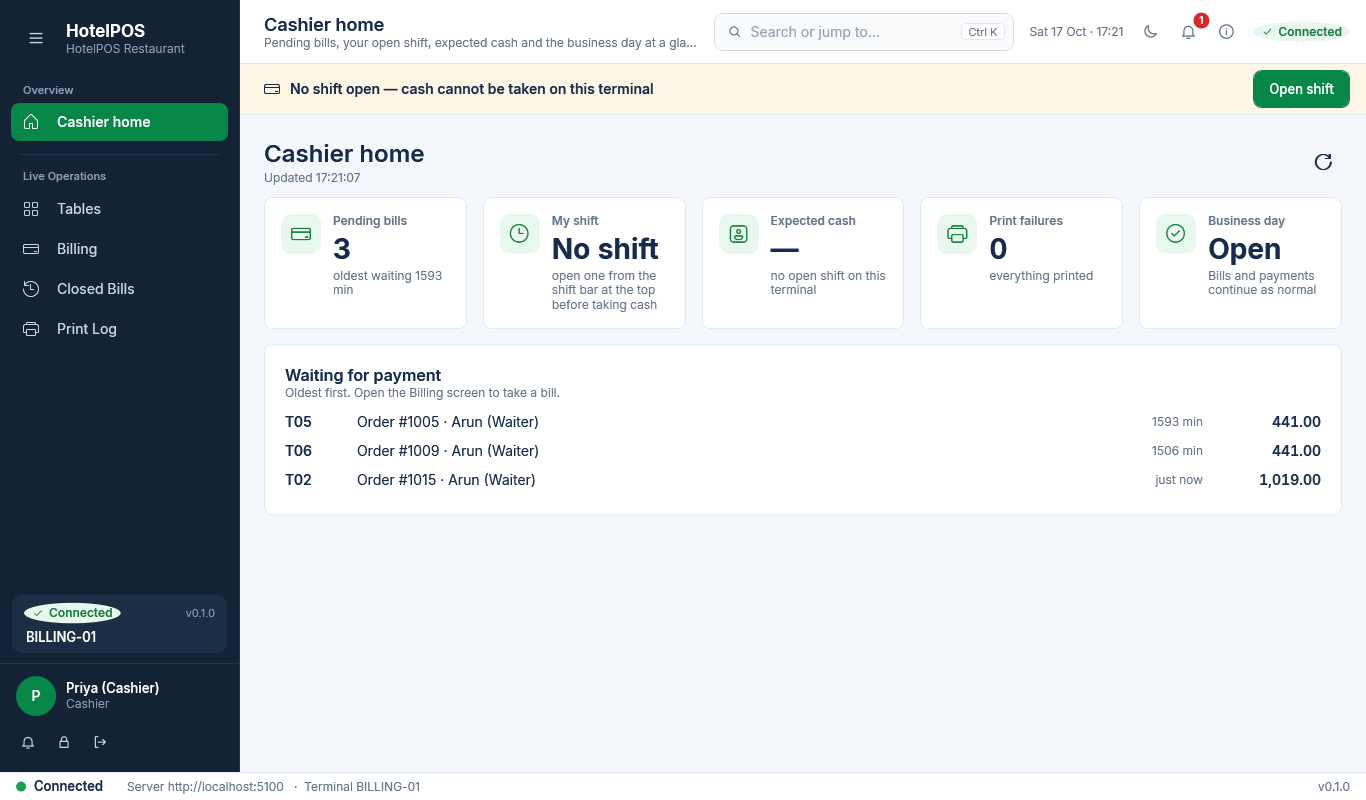
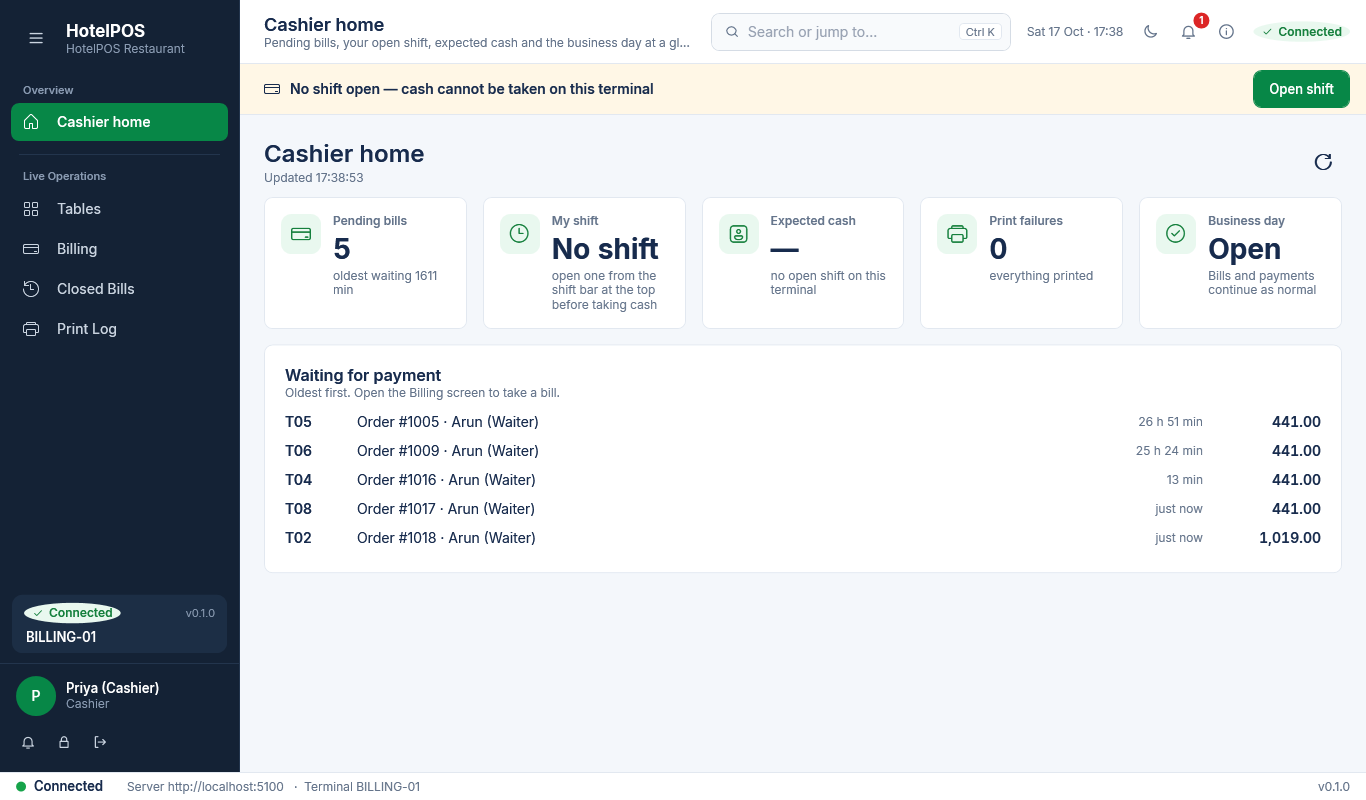
fix(desktop): Phase 21 polish - Manage customers link in the bill picker (D3), payment column spacing, sidebar nav scrollbar, elapsed wait time, toast below the shift bar, Add discount hidden on paid bills; cashier gallery refreshed

diff --git a/Restaurant_Pos/src/HotelPOS.Desktop/Themes/Cashier.xaml b/Restaurant_Pos/src/HotelPOS.Desktop/Themes/Cashier.xaml
@@ -264,6 +264,7 @@
                 <TextBlock Text="{Binding DiscountLabel}" Style="{StaticResource Text.Body}" Foreground="{DynamicResource Brush.TextSecondary}"
                            VerticalAlignment="Center" MaxWidth="260" TextTrimming="CharacterEllipsis" />
                 <Button Content="Add discount" Command="{Binding ShowDiscountCommand}" Style="{StaticResource Button.Link}" Margin="8,0,0,0"
+                        Visibility="{Binding IsPaid, Converter={StaticResource InverseBoolToVisibility}}"
                         IsEnabled="{Binding CanEdit}" />
               </StackPanel>
               <TextBlock Text="{Binding DiscountText}" Style="{StaticResource Text.Numeric}" Foreground="{DynamicResource Brush.SuccessText}"
@@ -389,7 +390,7 @@
                   </ItemsControl.ItemsPanel>
                   <ItemsControl.ItemTemplate>
                     <DataTemplate DataType="{x:Type billing:PaymentMethodButton}">
-                      <ToggleButton Style="{StaticResource PaymentPanel.Method}" IsChecked="{Binding IsSelected, Mode=OneWay}"
+                      <ToggleButton Style="{StaticResource PaymentPanel.Method}" MinHeight="44" Margin="0,0,8,6" IsChecked="{Binding IsSelected, Mode=OneWay}"
                                     Command="{Binding DataContext.PayWithCommand, RelativeSource={RelativeSource AncestorType=ItemsControl}}"
                                     CommandParameter="{Binding Method}" AutomationProperties.Name="{Binding Name}">
                         <StackPanel>
@@ -401,7 +402,7 @@
                   </ItemsControl.ItemTemplate>
                 </ItemsControl>
                 <ToggleButton Style="{StaticResource PaymentPanel.Method}" IsChecked="{Binding IsSplitSelected, Mode=OneWay}" Command="{Binding PaySplitCommand}"
-                              HorizontalAlignment="Stretch" Margin="0,0,0,8" MinHeight="44" AutomationProperties.Name="Split payment">
+                              HorizontalAlignment="Stretch" Margin="0,0,0,4" MinHeight="40" AutomationProperties.Name="Split payment">
                   <StackPanel Orientation="Horizontal">
                     <controls:Icon Kind="swap" Width="16" Height="16" VerticalAlignment="Center" Margin="0,0,8,0" />
                     <TextBlock Text="Split payment" VerticalAlignment="Center" />
@@ -424,7 +425,7 @@
                                  Typography.NumeralAlignment="Tabular" AutomationProperties.Name="Amount to pay" />
                       </Grid>
                       <StackPanel Visibility="{Binding IsCash, Converter={StaticResource BoolToVisibility}}">
-                        <TextBlock Text="Quick amounts" Style="{StaticResource Text.Caption}" Margin="0,10,0,4" />
+                        <TextBlock Text="Quick amounts" Style="{StaticResource Text.Caption}" Margin="0,6,0,2" />
                         <ItemsControl ItemsSource="{Binding QuickTenders}" Focusable="False" Margin="0,0,-8,0">
                           <ItemsControl.ItemsPanel>
                             <ItemsPanelTemplate>
@@ -433,16 +434,16 @@
                           </ItemsControl.ItemsPanel>
                           <ItemsControl.ItemTemplate>
                             <DataTemplate DataType="{x:Type billing:QuickTenderOption}">
-                              <Button Content="{Binding Label}" Style="{StaticResource PaymentPanel.QuickAmount}"
+                              <Button Content="{Binding Label}" Style="{StaticResource PaymentPanel.QuickAmount}" MinHeight="38" Margin="0,0,8,6"
                                       Command="{Binding DataContext.QuickTenderCommand, RelativeSource={RelativeSource AncestorType=ItemsControl}}"
                                       CommandParameter="{Binding}" />
                             </DataTemplate>
                           </ItemsControl.ItemTemplate>
                         </ItemsControl>
                         <TextBlock Text="Amount received" Style="{StaticResource Text.Caption}" Margin="0,2,0,2" />
-                        <TextBox Text="{Binding TenderedText, UpdateSourceTrigger=PropertyChanged}" Style="{StaticResource PaymentPanel.Received}" MaxLength="12"
+                        <TextBox Text="{Binding TenderedText, UpdateSourceTrigger=PropertyChanged}" Style="{StaticResource PaymentPanel.Received}" MaxLength="12" MinHeight="46"
                                  AutomationProperties.Name="Amount received" />
-                        <Border Style="{StaticResource PaymentPanel.Change}" Margin="0,8,0,0">
+                        <Border Style="{StaticResource PaymentPanel.Change}" Margin="0,4,0,0" Padding="14,6">
                           <Grid>
                             <TextBlock Text="Change due" VerticalAlignment="Center" />
                             <TextBlock Text="{Binding ChangeText}" Style="{StaticResource PaymentPanel.ChangeAmount}" />

diff --git a/Restaurant_Pos/src/HotelPOS.Desktop/Shell/ShellView.xaml b/Restaurant_Pos/src/HotelPOS.Desktop/Shell/ShellView.xaml
@@ -64,7 +64,37 @@
                  ItemsSource="{Binding NavItems}"
                  SelectedItem="{Binding SelectedNavItem}"
                  Style="{StaticResource NavList}"
-                 ItemContainerStyle="{StaticResource NavItem}" />
+                 ScrollViewer.VerticalScrollBarVisibility="Auto"
+                 ItemContainerStyle="{StaticResource NavItem}">
+        <ListBox.Resources>
+          <!-- Thin scrollbar on the navy: a light translucent thumb, no track. -->
+          <Style TargetType="ScrollBar">
+            <Setter Property="Background" Value="Transparent" />
+            <Setter Property="Width" Value="6" />
+            <Setter Property="MinWidth" Value="6" />
+            <Setter Property="Template">
+              <Setter.Value>
+                <ControlTemplate TargetType="ScrollBar">
+                  <Track x:Name="PART_Track" IsDirectionReversed="True">
+                    <Track.Thumb>
+                      <Thumb>
+                        <Thumb.Template>
+                          <ControlTemplate TargetType="Thumb">
+                            <Border x:Name="Bd" Background="{DynamicResource Brush.SidebarTextMuted}" CornerRadius="3" Margin="1,0" />
+                            <ControlTemplate.Triggers>
+                              <Trigger Property="IsMouseOver" Value="True"><Setter TargetName="Bd" Property="Background" Value="{DynamicResource Brush.SidebarText}" /></Trigger>
+                            </ControlTemplate.Triggers>
+                          </ControlTemplate>
+                        </Thumb.Template>
+                      </Thumb>
+                    </Track.Thumb>
+                  </Track>
+                </ControlTemplate>
+              </Setter.Value>
+            </Setter>
+          </Style>
+        </ListBox.Resources>
+        </ListBox>
 
         <!-- Footer: the terminal and connection card, then the signed-in user. Name and role get the full width; the three actions sit
              on their own row underneath. -->

diff --git a/Restaurant_Pos/src/HotelPOS.Desktop/Modules/Billing/BillDetailView.xaml b/Restaurant_Pos/src/HotelPOS.Desktop/Modules/Billing/BillDetailView.xaml
@@ -157,6 +157,7 @@
                 <TextBlock Text="{Binding DiscountLabel}" Style="{StaticResource Text.Body}" Foreground="{DynamicResource Brush.TextSecondary}"
                            VerticalAlignment="Center" MaxWidth="230" TextTrimming="CharacterEllipsis" />
                 <Button Content="DISCOUNT" Command="{Binding ShowDiscountCommand}" Style="{StaticResource Button.Link}" Margin="8,0,0,0"
+                        Visibility="{Binding IsPaid, Converter={StaticResource InverseBoolToVisibility}}"
                         IsEnabled="{Binding CanEdit}" />
               </StackPanel>
               <TextBlock Text="{Binding DiscountText}" Style="{StaticResource Text.Body}" HorizontalAlignment="Right" VerticalAlignment="Center"
@@ -305,9 +306,10 @@
                       </DataTemplate>
                     </ItemsControl.ItemTemplate>
                   </ItemsControl>
-                  <TextBlock Text="No customer matches. Fill in the details below, or add the customer on the Customers screen."
+                  <TextBlock Text="No customer matches. Fill in the details below, or add the customer under Manage customers."
                              Style="{StaticResource Text.Caption}" TextWrapping="Wrap" Margin="0,6,0,0"
                              Visibility="{Binding HasNoCustomerMatches, Converter={StaticResource BoolToVisibility}}" />
+                  <Button Content="Manage customers…" Command="{Binding ManageCustomersCommand}" Style="{StaticResource Button.Link}" HorizontalAlignment="Left" Margin="0,6,0,0" />
                   <TextBlock Text="{Binding PickedCustomerName, StringFormat='Picked: {0}'}" Style="{StaticResource Text.Caption}" Margin="0,6,0,0"
                              Visibility="{Binding PickedCustomerName, Converter={StaticResource StringToVisibility}}" />
                   <Button Content="CLEAR CUSTOMER" Command="{Binding ClearCustomerCommand}" HorizontalAlignment="Left" MinHeight="44" Margin="0,8,0,0"

diff --git a/Restaurant_Pos/src/HotelPOS.Desktop/Shell/MainWindow.xaml b/Restaurant_Pos/src/HotelPOS.Desktop/Shell/MainWindow.xaml
@@ -67,7 +67,7 @@
          pages' action rows (top-right and bottom) stay clear of them. -->
     <ItemsControl ItemsSource="{Binding Notifications.Items}"
                   HorizontalAlignment="Center" VerticalAlignment="Top"
-                  Margin="0,64,0,0" Width="420" Focusable="False">
+                  Margin="0,124,0,0" Width="420" Focusable="False">
       <ItemsControl.ItemTemplate>
         <DataTemplate DataType="{x:Type ui:ToastViewModel}">
           <Grid Margin="0,8,0,0">

diff --git a/Restaurant_Pos/tests/HotelPOS.Desktop.Tests/Billing/BillingViewModelTests.cs b/Restaurant_Pos/tests/HotelPOS.Desktop.Tests/Billing/BillingViewModelTests.cs
@@ -328,6 +328,18 @@ public sealed class BillingViewModelTests
     }
 
     [Fact]
+    public async Task ManageCustomers_OpensTheHiddenCustomersModule()
+    {
+        var nav = Substitute.For<INavigationService>();
+        var vm = DetailViewModel(nav: nav);
+
+        await vm.ManageCustomersCommand.ExecuteAsync(null);
+
+        await nav.Received(1).NavigateToAsync(ModuleRegistry.Customers, Arg.Any<object?>());
+        vm.Dispose();
+    }
+
+    [Fact]
     public async Task CustomerPanel_WithoutTheCustomerList_HidesThePicker()
     {
         var bill = Detail(BillStatus.Open, balance: 630m);
@@ -376,13 +388,13 @@ public sealed class BillingViewModelTests
         vm.Dispose();
     }
 
-    private BillDetailViewModel DetailViewModel(string role = "Cashier", IDialogService? dialogs = null, ICustomersApi? customers = null, IOrdersApi? orders = null)
+    private BillDetailViewModel DetailViewModel(string role = "Cashier", IDialogService? dialogs = null, ICustomersApi? customers = null, IOrdersApi? orders = null, INavigationService? nav = null)
     {
         var session = Substitute.For<IAuthSession>();
         session.User.Returns(TestData.Login("cashier1", roles: role).User);
         var system = Substitute.For<ISystemApi>();
         system.GetPublicSettingsAsync(Arg.Any<CancellationToken>()).Returns(ApiResult<List<Contracts.Admin.SettingDto>>.Ok(new List<Contracts.Admin.SettingDto>()));
-        return new BillDetailViewModel(_api, system, new FakeRealtimeClient(), Substitute.For<INavigationService>(),
+        return new BillDetailViewModel(_api, system, new FakeRealtimeClient(), nav ?? Substitute.For<INavigationService>(),
             dialogs ?? Substitute.For<IDialogService>(), Substitute.For<INotificationService>(), session, Substitute.For<HotelPOS.Desktop.Services.Printing.IDocumentPrinter>(), customers: customers, orders: orders);
     }
 

diff --git a/Restaurant_Pos/src/HotelPOS.Desktop/Modules/Billing/BillingQueueViewModel.cs b/Restaurant_Pos/src/HotelPOS.Desktop/Modules/Billing/BillingQueueViewModel.cs
@@ -72,7 +72,9 @@ public sealed partial class BillQueueItemViewModel : ObservableObject
     public void Tick(DateTime nowUtc)
     {
         var minutes = Math.Max(0, (int)(nowUtc - Bill.RequestedAtUtc).TotalMinutes);
-        WaitingText = minutes < 1 ? "just now" : string.Create(CultureInfo.CurrentCulture, $"{minutes} min");
+        WaitingText = minutes < 1 ? "just now" : minutes >= 2 * 24 * 60
+            ? string.Create(CultureInfo.CurrentCulture, $"{minutes / 1440} d {minutes % 1440 / 60} h")
+            : HotelPOS.Desktop.Modules.Orders.ActiveOrderQueries.Elapsed(Bill.RequestedAtUtc, nowUtc);
     }
 }
 

diff --git a/Restaurant_Pos/src/HotelPOS.Desktop/Modules/Billing/BillDetailViewModel.cs b/Restaurant_Pos/src/HotelPOS.Desktop/Modules/Billing/BillDetailViewModel.cs
@@ -292,6 +292,10 @@ public sealed partial class BillDetailViewModel : ViewModelBase, INavigationAwar
         ResetSearch();
     }
 
+    // D3: Customers is not in the sidebar; the picker links to it.
+    [RelayCommand]
+    private Task ManageCustomersAsync() => _navigation.NavigateToAsync(ModuleRegistry.Customers);
+
     // Takes the customer off the bill at once (the same save as emptying every field).
     [RelayCommand]
     private async Task ClearCustomerAsync()

diff --git a/Restaurant_Pos/docs/ui-ux/desktop/README.md b/Restaurant_Pos/docs/ui-ux/desktop/README.md
@@ -102,7 +102,7 @@ and must be rewritten before it can be replayed.
 
 | Screen | Matches | Differs | Gap by design (plan § 3 Out / § 4) |
 |---|---|---|---|
-| Cashier workspace (`cashier/05`) | Three panes with the mock-up's proportions; navy grouped sidebar; bill cards with badge, waiter, wait, total; order column with thumbnails, options and notes, totals; payment column with due hero, method buttons, quick amounts, Amount received / Change, green Complete payment; the mock-up's Quick actions become the Finalize / Reopen / Void row | Thumbnails are initials (no pictures uploaded yet, D11); "Not invoiced yet" and real GST rows instead of "Tax (10 %)"; the sidebar has the HotelPOS groups, not the mock-up's Expenses / Customers / Sales Report items | No Dine In / Takeaway / Delivery chips (no order types); no Edit order / Add items / Send to kitchen / Cancel order for the cashier (waiter flow); no Wallet method unless configured (D6); Customers hidden (D3) |
+| Cashier workspace (`cashier/05`) | Three panes with the mock-up's proportions; navy grouped sidebar; bill cards with badge, waiter, wait, total; order column with thumbnails, options and notes, totals; payment column with due hero, method buttons, quick amounts, Amount received / Change, green Complete payment; the mock-up's Quick actions become the Finalize / Reopen / Void row | Thumbnails are initials (no pictures uploaded yet, D11); "Not invoiced yet" and real GST rows instead of "Tax (10 %)"; the sidebar has the HotelPOS groups, not the mock-up's Expenses / Customers / Sales Report items | No Dine In / Takeaway / Delivery chips (no order types); no Edit order / Add items / Send to kitchen / Cancel order for the cashier (waiter flow); no Wallet method unless configured (D6); Customers hidden (D3; reached by the "Manage customers…" link in the bill customer picker) |
 | Cashier paid (`cashier/08`) | Inline Paid state in the payment column, tenders listed, Print receipt / invoice / Next bill | The mock-up has no paid state; ours keeps the order visible and frees the table (toast) | — |
 | Paid chip (`cashier/09-cashier-queue-paid-chip`) | Chip row Waiting / Invoiced / Partly paid / Paid like the mock-up's Open / Partial / Ready / Paid | Status words follow the shared status map | — |
 | Dashboard light (`manager/17`) | Header with business day and Online pill; four KPI cards with delta and occupancy bar; Live Order Status donut with legend; Active Orders table with chips, View, pager, View all; Table status cards; Recent activity; Top items; Staff and Terminals | KPI icons are outline glyphs, not filled tiles; the table has no Customer column (bills carry the customer, orders do not); only statuses present appear in the legend | No Low stock card or table, Hourly sales, Expenses, Profit & Loss, Cash reconciliation, date-range or branch pickers, sparklines (§ 3 Out, A2); Terminals placeholder for managers (`api/admin/devices` is admin-only) |
@@ -120,22 +120,22 @@ and must be rewritten before it can be replayed.
    `src/HotelPOS.Desktop/Modules/Orders/ActiveOrdersView.xaml` and ITEMS 62→72, ELAPSED 82→100, View 66→80 in
    `src/HotelPOS.Desktop/Modules/Dashboard/DashboardView.xaml`; the manager run was repeated and `ScreenRenderingTests`
    is green.
-2. **Open (medium) — Payment column: Amount received is below the fold at 800 px.** `cashier/05`: the quick-amount grid
+2. **Mostly fixed (medium) — Payment column: Amount received is below the fold at 800 px.** Spacing tightened in `Themes/Cashier.xaml` (method, quick-amount, received, change); Amount received is now visible at 800 px, the Change box still needs a scroll of the column (its scrollbar stays) - `cashier/05`: the quick-amount grid
    takes two rows, so the received field sits under the Complete payment button and needs the column's scrollbar; at
    1366×768 it is further down. One row of quick amounts (or a smaller hero) would fit
    (`src/HotelPOS.Desktop/Modules/Billing/BillDetailView.xaml`, payment column).
-3. **Open (medium) — Sidebar navigation is cut at "Menu Management" at 800 px.** Every manager screen: the nav list
+3. **Fixed (medium) — Sidebar (`ShellView.xaml`: scrollbar Auto with a thin themed thumb; footer pinned; not re-shot, cashier nav is short) navigation is cut at "Menu Management" at 800 px.** Every manager screen: the nav list
    ends under the device card with a half-visible group label and no visible scrollbar, so Finance, Analytics,
    Devices and System are reachable only by wheel-scrolling or the palette (`src/HotelPOS.Desktop/Shell/ShellView.xaml:250`,
    the nav `ScrollViewer`; check whether its bar is styled invisible or the row grows past the window).
-4. **Open (low) — Wait time on bill cards is in raw minutes.** `cashier/04`: "1593 min", "1507 min" for the stale demo
+4. **Fixed (low, `BillingQueueViewModel.Tick`: "26 h 51 min", "2 d 2 h") — Wait time on bill cards is in raw minutes.** `cashier/04`: "1593 min", "1507 min" for the stale demo
    bills, while the Orders page says "26 h 41 min" (`src/HotelPOS.Desktop/Modules/Billing/CashierWorkspaceView.xaml`, card template).
-5. **Open (low) — Toasts cover the shift bar text.** `cashier/08`: the top-centre toast hides "Shift open since 17:21 ·
+5. **Fixed (low, toast host margin top 124 in `MainWindow.xaml`) — Toasts cover the shift bar text.** `cashier/08`: the top-centre toast hides "Shift open since 17:21 ·
    Priya (Cashier) · expected ..." (the buttons stay clear).
-6. **Open (low) — "Add discount" still rendered beside an applied discount on a paid bill.** `cashier/08`: the greyed
+6. **Fixed (low, hidden when IsPaid in `Themes/Cashier.xaml` and `BillDetailView.xaml`) — "Add discount" still rendered beside an applied discount on a paid bill.** `cashier/08`: the greyed
    link reads oddly next to "Discount 5% · Regular guest"; hide it once the bill is settled
    (`src/HotelPOS.Desktop/Modules/Billing/BillDetailView.xaml`, totals block).
-7. **Open (low) — D3's "Manage customers" link is missing.** The bill's customer picker says "add the customer on the
+7. **Fixed (low, "Manage customers…" link, `ManageCustomersCommand`) — D3's "Manage customers" link is missing.** The bill's customer picker says "add the customer on the
    Customers screen" (`src/HotelPOS.Desktop/Modules/Billing/BillDetailView.xaml:308`) but Customers is no longer in the
    sidebar; only the command palette reaches it.
 8. **Info — not regenerated.** Admin-only screens (password unknown) and the `functions/` pass (needs the workspace

diff --git a/Restaurant_Pos/docs/07-menus-screens-and-fields.md b/Restaurant_Pos/docs/07-menus-screens-and-fields.md
@@ -400,7 +400,7 @@ Source: `Modules/Printing/PrintLogView.xaml`
 ### 5.3 Customers
 
 Purpose: search, add, edit and deactivate customers; the bill's picker draws from this list. Opened by Admin, Manager, Cashier.
-Phase 21 (D3): the screen is no longer in the sidebar (module key `customers`, `ShowInNav = false`); it still opens from the command palette ("Customers") and from Find. The bill's customer panel keeps the picker and says "add the customer on the Customers screen" when nothing matches; the "Manage customers" link planned in D3 is **not implemented** on the desktop yet (checked 2026-10-17), so the palette is the way there.
+Phase 21 (D3): the screen is no longer in the sidebar (module key `customers`, `ShowInNav = false`); it still opens from the command palette ("Customers") and from Find. The bill's customer panel keeps the picker, says "add the customer under Manage customers" when nothing matches, and has a **Manage customers…** link (`BillDetailViewModel.ManageCustomersCommand`) that opens the screen.
 Controls: search (name, phone or GSTIN), Show inactive, refresh, **New customer**, paging (25 per page).
 Columns: NAME, PHONE, GSTIN, LEGAL NAME, STATUS.
 Buttons: **Edit**, **Deactivate / Activate** (deactivate asks to confirm), previous/next page.
